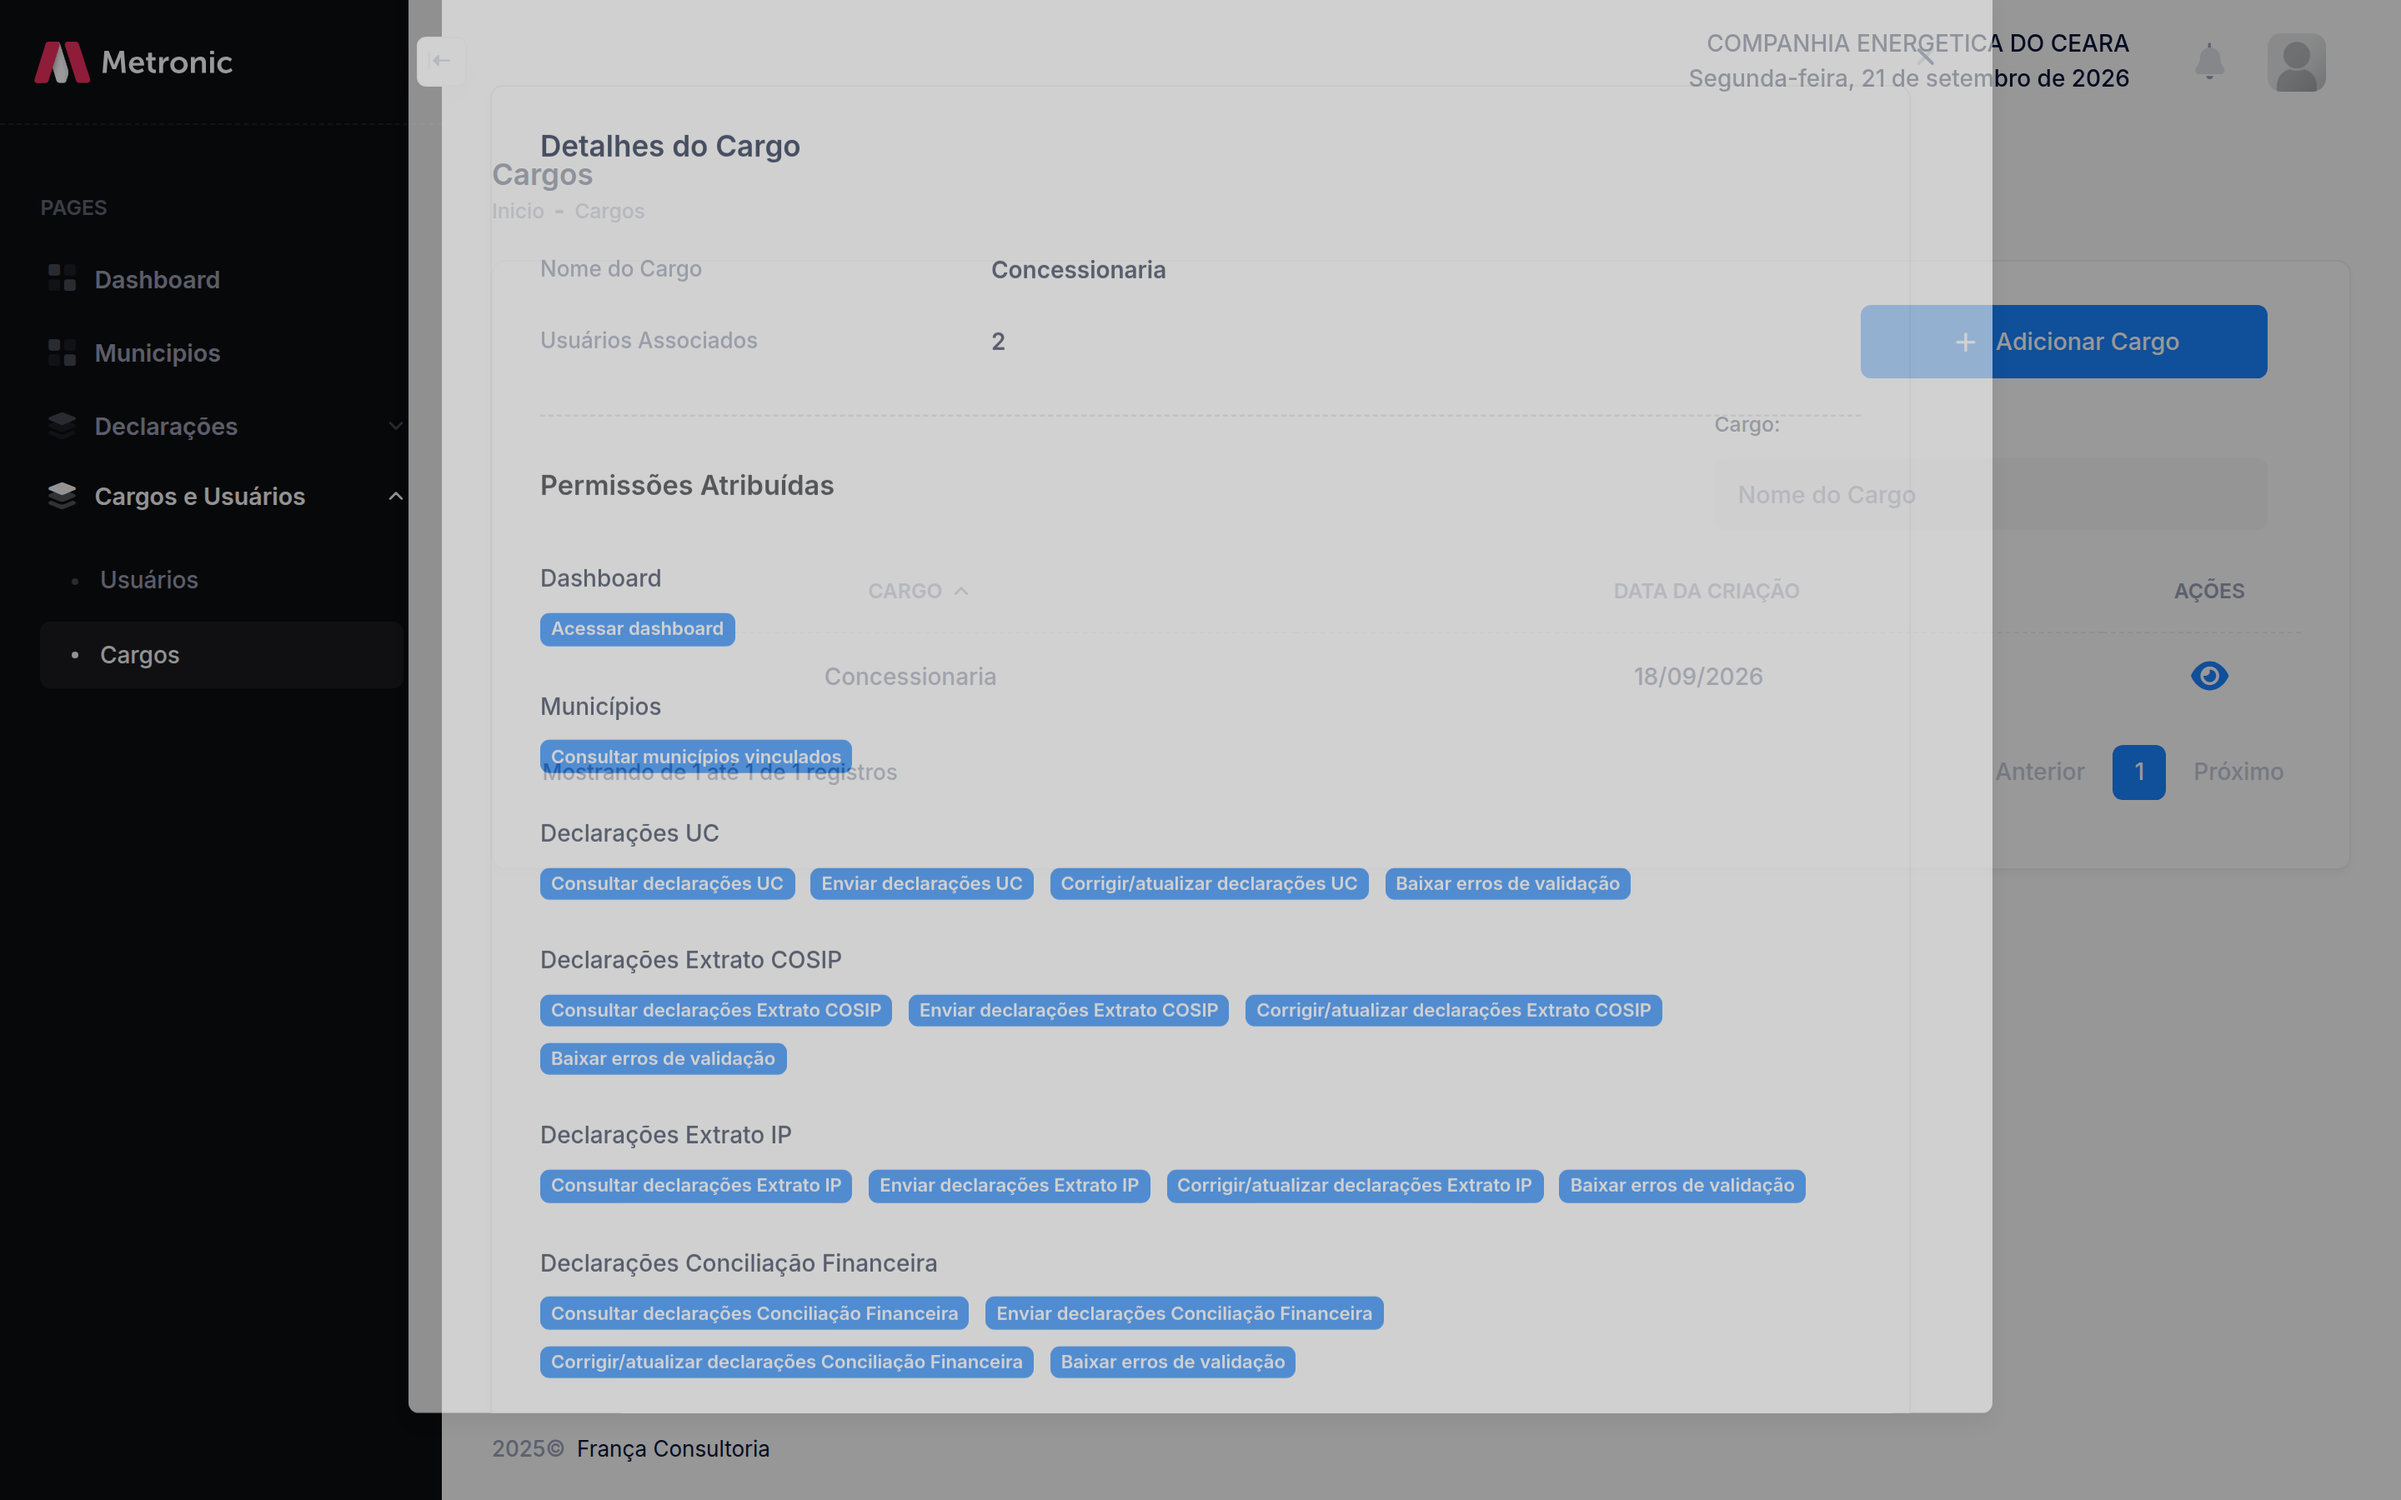
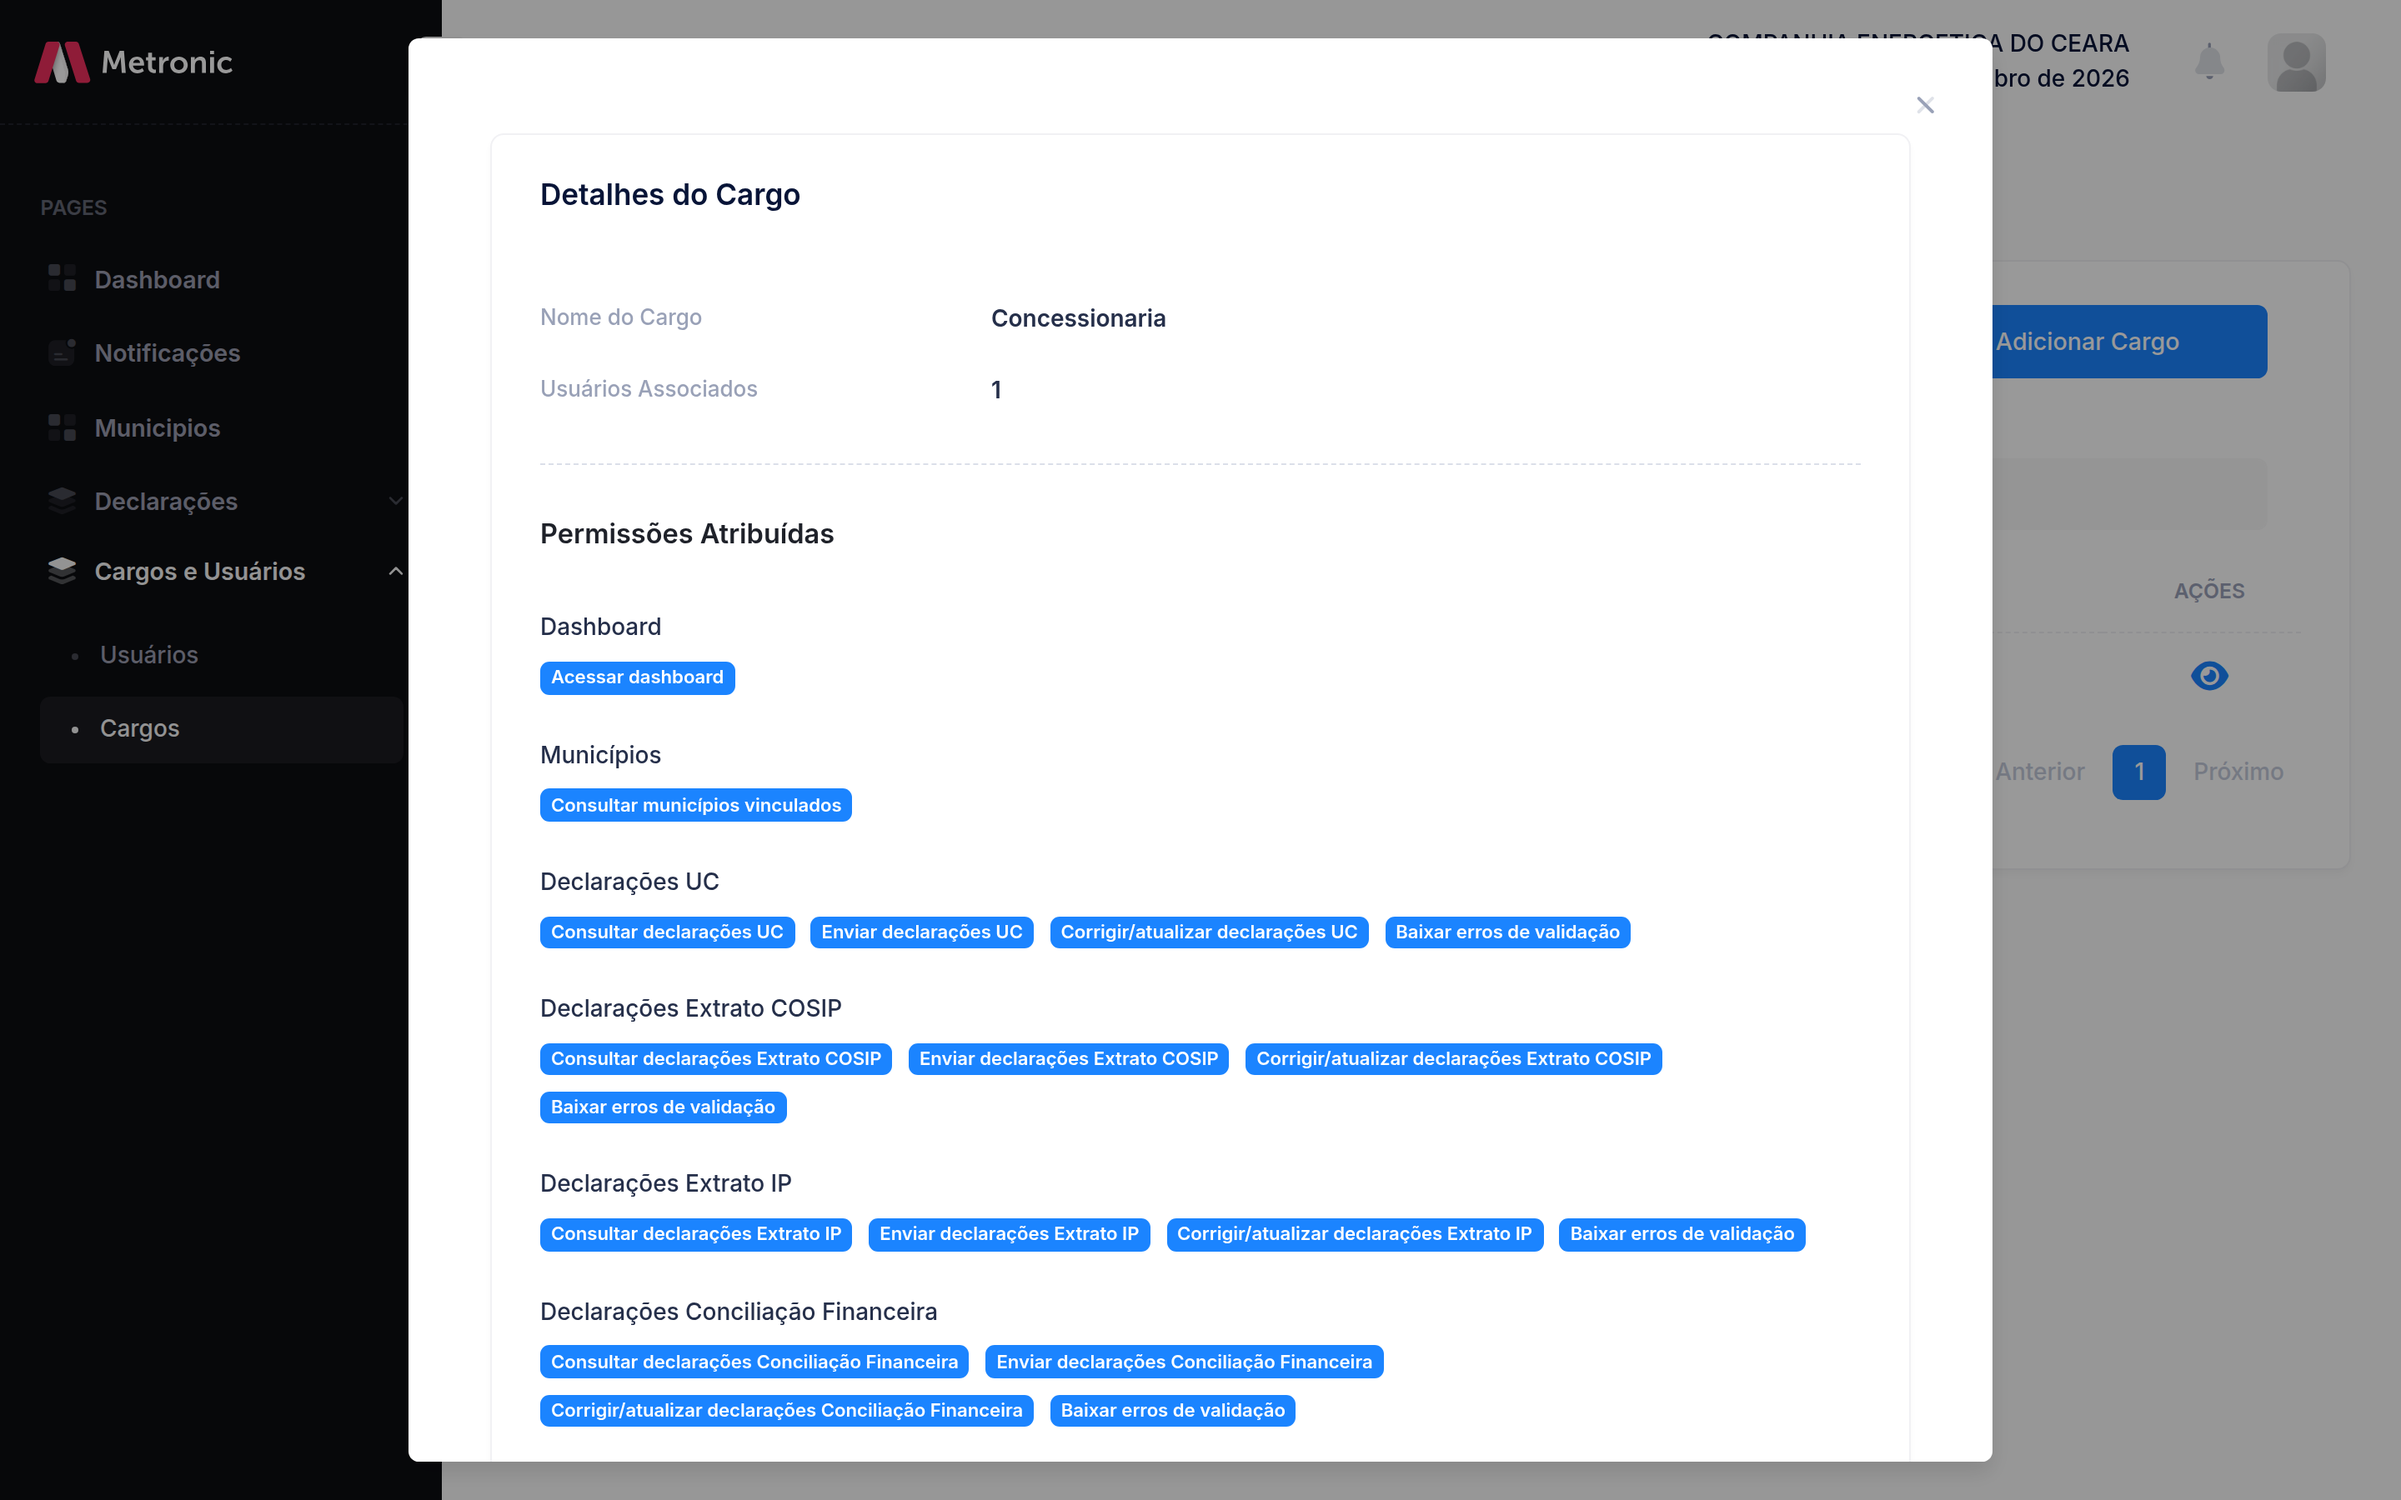
docs: limita a contagem de usuários do cargo no guia
A consulta do cargo padrão passa a mostrar só os usuários da concessionária que consulta o registro.

diff --git a/guia-painel-concessionaria.html b/guia-painel-concessionaria.html
@@ -503,7 +503,7 @@
     </figure>
 
     <div class="subsecao-titulo" id="s3-3">3.3 Cargo padrão do sistema</div>
-    <p>O cargo <strong>Concessionaria</strong> é criado pelo sistema. Não admite alteração de nome, de permissões nem exclusão: na listagem aparece somente a consulta. Ele reúne as capacidades do contexto da concessionária (dashboard, municípios, declarações e gestão de usuários e cargos).</p>
+    <p>O cargo <strong>Concessionaria</strong> é criado pelo sistema e é compartilhado entre as concessionárias. Não admite alteração de nome, de permissões nem exclusão: na listagem aparece somente a consulta. Ele reúne as capacidades do contexto da concessionária (dashboard, municípios, declarações e gestão de usuários e cargos). O campo <strong>Usuários Associados</strong> conta somente os usuários da concessionária que consulta o cargo. A mesma conta vale para os cargos criados pela própria concessionária.</p>
     <figure class="figura">
       <img src="imagens/painel-concessionaria/10-cargo-padrao.png" alt="Detalhes do cargo padrão Concessionaria, com permissões atribuídas por módulo">
       <figcaption><strong>Figura 9.</strong> Consulta do cargo padrão Concessionaria. As permissões cobrem os módulos do painel; o registro não é editável.</figcaption>
